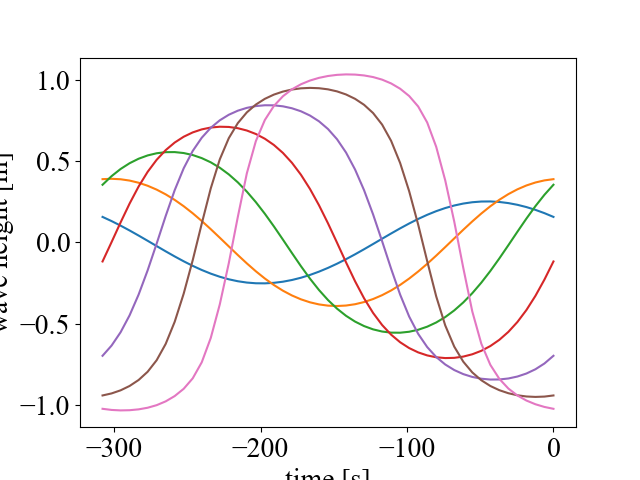
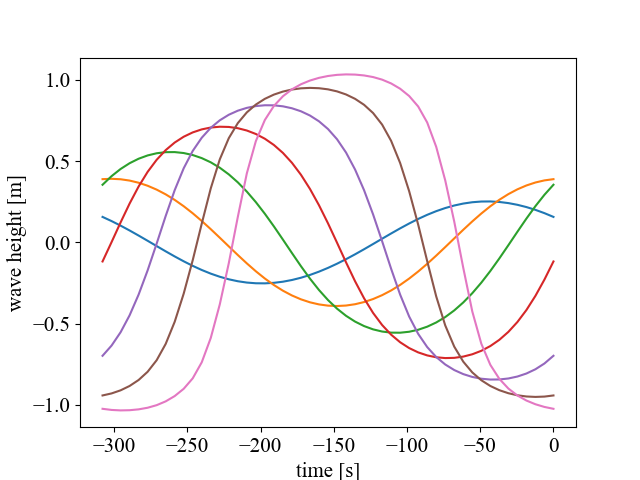
説明を追加

diff --git a/魚/check_data.py b/魚/check_data.py
@@ -2,7 +2,8 @@ from time import sleep
 import json
 import math
 import matplotlib.pyplot as plt
-plt.rcParams.update({"font.family": "Times New Roman", 'font.size': 20})
+plt.rcParams.update({"font.family": "Times New Roman", 'font.size': 15})
+plt.tight_layout()
 
 
 def tToi(tIN, w, data_size):
